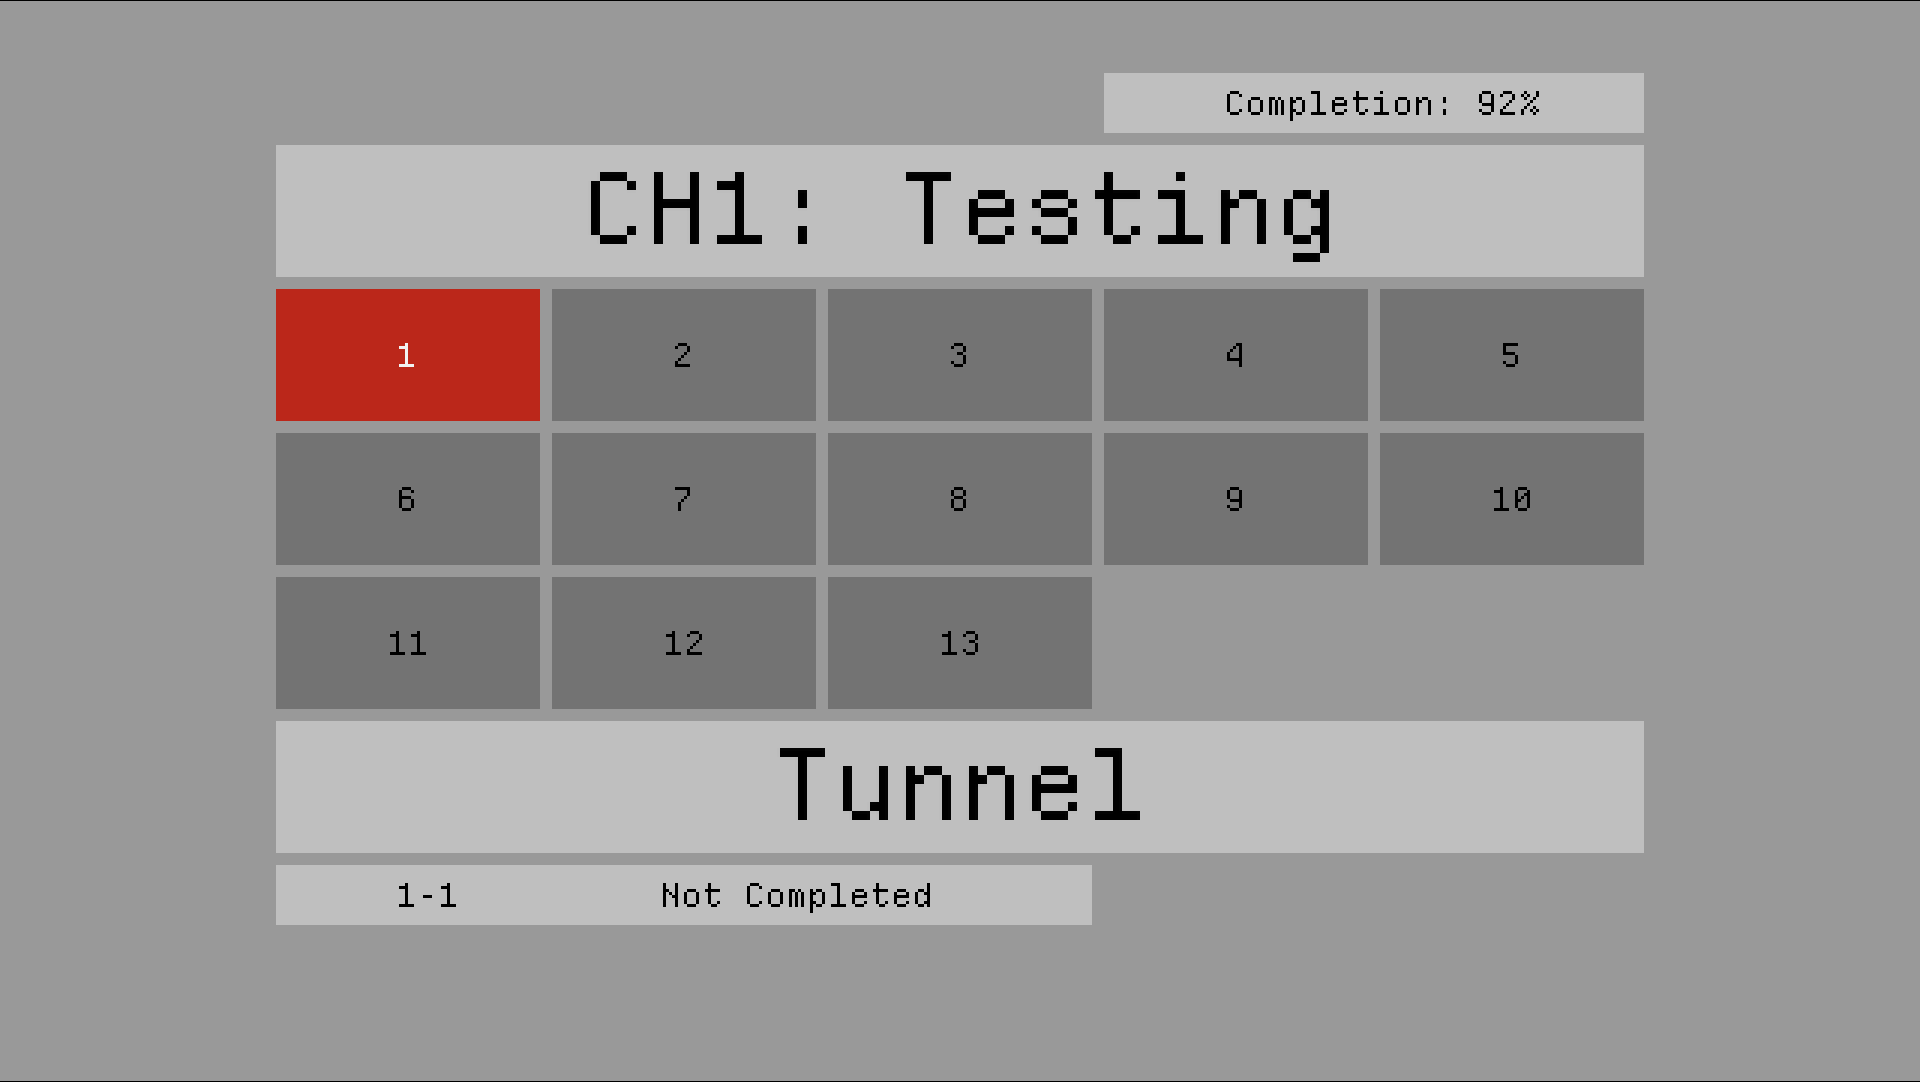
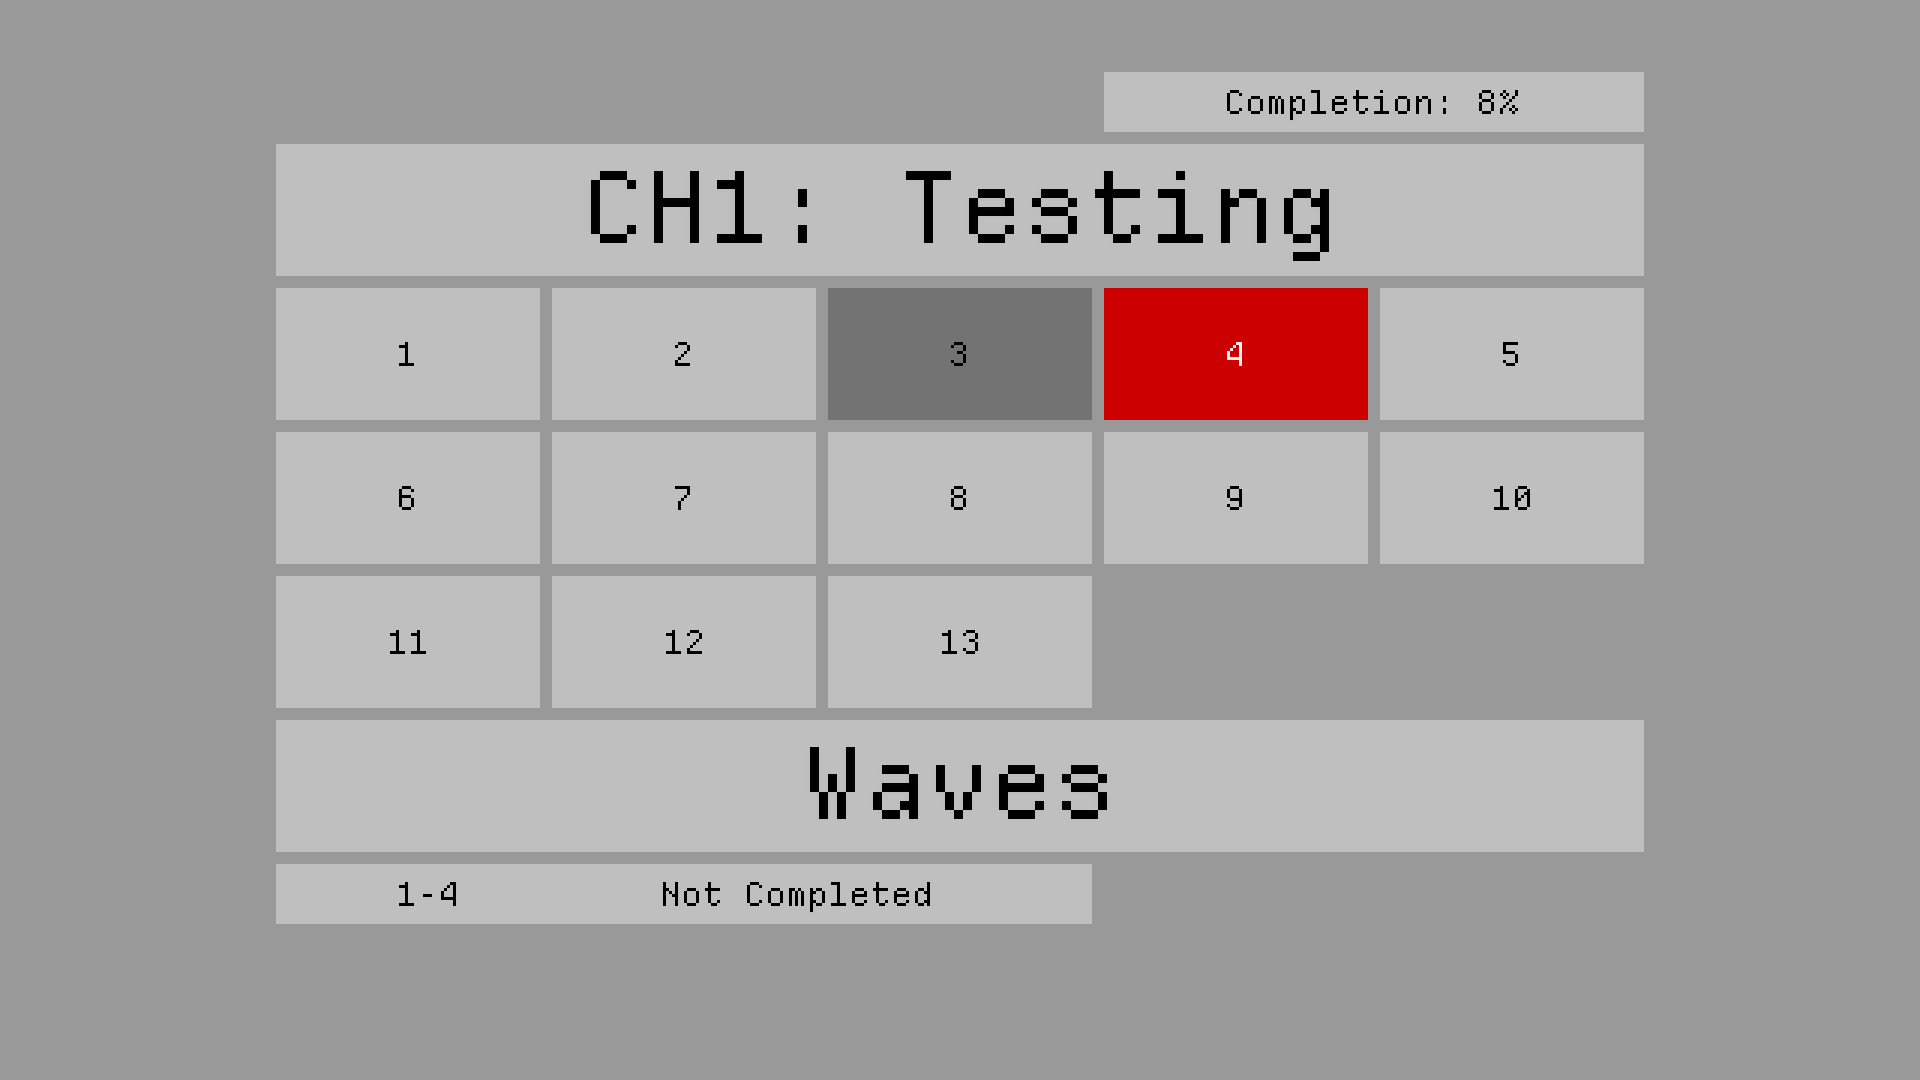
README_ui_refactor.md updates

Changed region(s): [[0.125, 0.2444, 0.875, 0.7639], [0.7812, 0.0611, 0.8125, 0.1222], [0.2188, 0.825, 0.25, 0.8556]]

diff --git a/changelog/README_ui_refactor.md b/changelog/README_ui_refactor.md
@@ -5,12 +5,10 @@ new functionality:
 
  - save data is updated when a player beats a level
  - level select UI:
-   - levels now respond to clicks and controller input, similar to pause menu
-   - level completion percentage displayed on top right panel
-   - level ID displayed on bottom left panel
-   - individual level completion information displayed on bottom panel
-   - completed levels styled in a darker tone for visual distinction
-     - TODO: update screenshot to show differences in completed and non-completed
+    - level completion percentage displayed on top right panel
+    - level ID displayed on bottom left panel
+    - individual level completion displayed on bottom panel
+    - completed levels styled in a darker tone
 
 UI layout updates:
 
@@ -66,9 +64,6 @@ Unit: 24px tiles:
   - 1080px = (15 * 60px) + (15 * 12px)
   - 1080px = (15 * 72px)
 
-- row height: 2.5 25px tiles
-- row gutter: 0.5 24px tiles (red)
-
 ---
 
 
@@ -77,8 +72,6 @@ Unit: 24px tiles:
 ### UI Grid overlaid on Level Select Screen
 
 <img src="./assets/ui_refactor/level_select.png" alt="level_select" style="max-width: 512px;">
-
-- the 
 
 ### UI Grid overlaid over all UI elements
 
